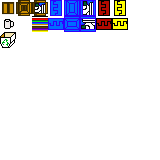
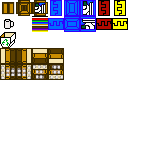
added shelfing sprites

Changed region(s): [[0.0, 0.2812, 0.4062, 0.5]]

diff --git a/todo.md b/todo.md
@@ -74,6 +74,10 @@
 
 ## R1 (    ) - Workers, Menu state started
 ```
+  /sheets
+* ( done ) - new sprites for shelfing
+* (      ) - new sprites for workers
+
   /states/boot.js :
 * ( done ) - remove code that uses old reuse state
 * ( done ) - have boot.js create the Menu State
@@ -109,7 +113,6 @@
 * ( done ) - when a worker goes threw a door it will change to being a part of the worker collection of the new map
 * ( done ) - fixed bug when changing item mode
 * ( done ) - have 6 workers, 3 in mega t, 2 in mega r, and 1 in back
-* (      ) - have 5 new sprites for workers
 
   /lib/people.js :
 * ( done ) - Person.setRandomSubType method
@@ -126,7 +129,6 @@
 * (      ) - the player should only be able to drop items in range
 * (      ) - many enter and exit locations for donators in map4
 * (      ) - have at least one worker automate work at di
-* (      )
 
   /sheets
 * ( done ) - menu_1.png sheet started with FLR logo
